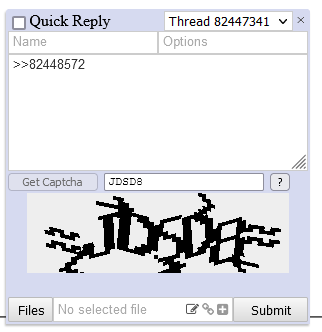
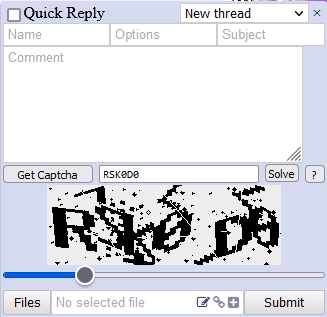
readme update

diff --git a/README.md b/README.md
@@ -7,8 +7,13 @@ No error handling in place - if solving fails, you can find the reason in js con
 
 I can't upload it to any userscript js site because of size. Most of the size is model weights.
 
+#### 24.07.2022
+- Built a new model trained on 4chan's new captcha with 5-6 characters, specks, lines, and more extra garbage scattered everywhere.
+- Disabled some of tooltip debug functionality I imagine no one used.
+- Changed the algorithm to not produce empty result wjhen the length of captcha output is not what we expected.
+- Tested on Firefox with Violentmonkey.
+
 #### 11.07.2021
-Built a new model from scratch, without using a pretrained one, on 50k synthetic samples (as opposed to previous one trained on 400 images + their augmentations).
+- Built a new model from scratch, without using a pretrained one, on 50k synthetic samples (as opposed to previous one trained on 400 images + their augmentations).
 
 ![screenshot](./screenshot.png)
-![screenshot 2](./screenshot2.png)
